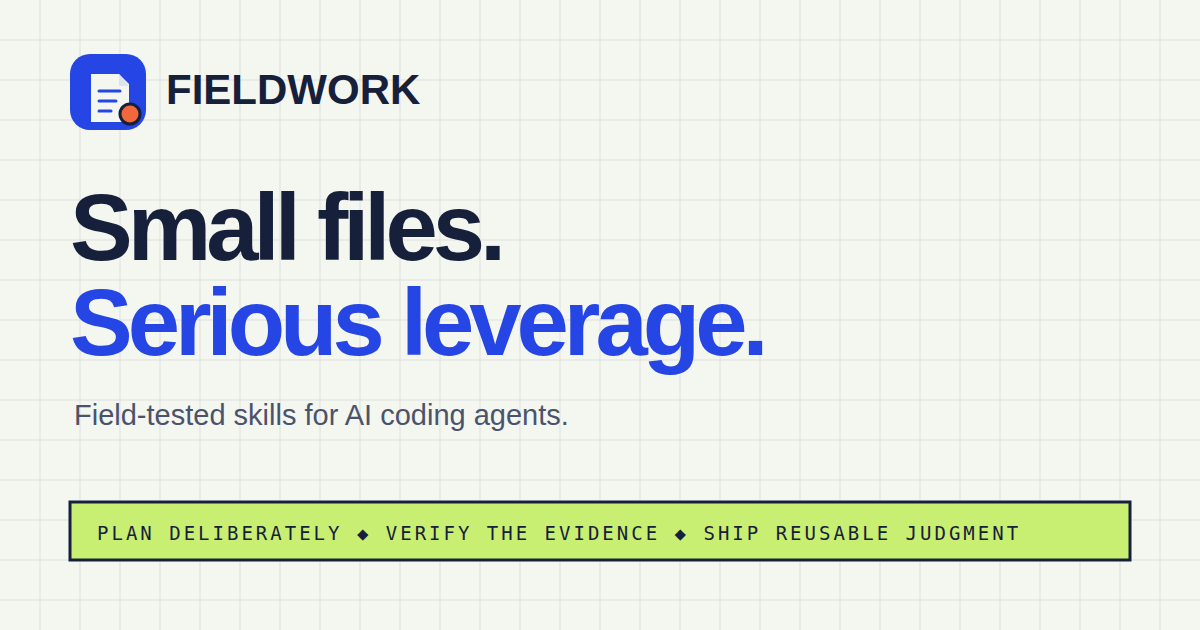
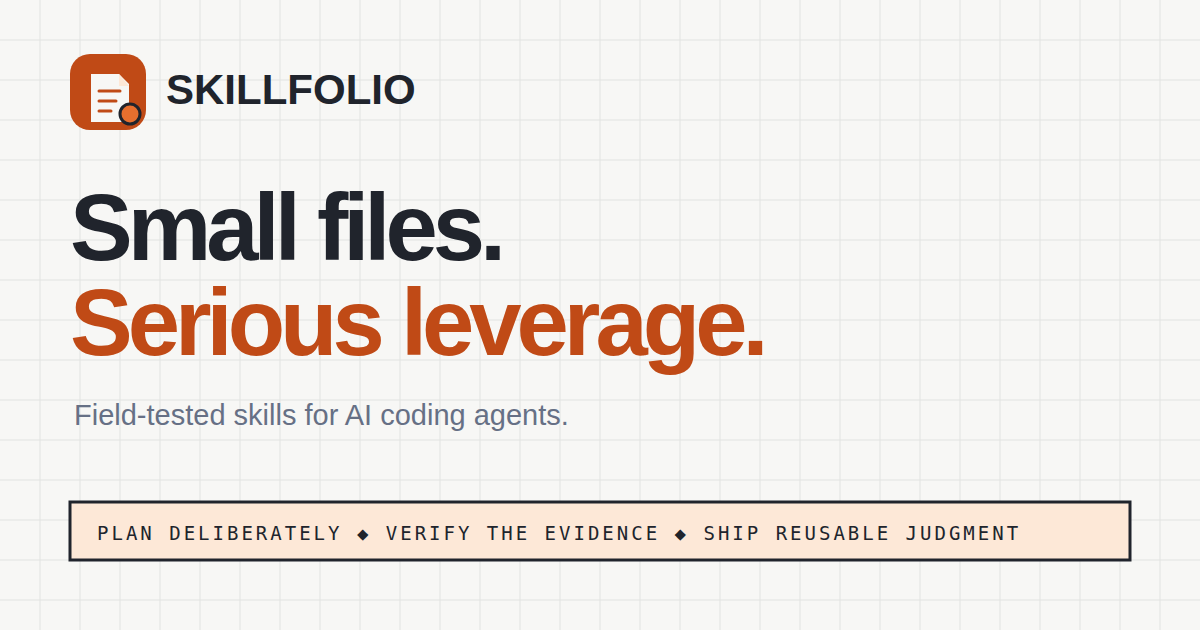
feat: rename app to Skillfolio

diff --git a/prototypes/v1/index.html b/prototypes/v1/index.html
@@ -4,7 +4,7 @@
   <meta charset="UTF-8" />
   <meta name="viewport" content="width=device-width, initial-scale=1.0" />
   <meta name="description" content="A personal library of practical AI agent skills." />
-  <title>Fieldwork — Montasim's Skill Library</title>
+  <title>Skillfolio — Montasim's Skill Library</title>
   <script src="https://cdn.tailwindcss.com"></script>
   <script>
     tailwind.config = {
@@ -49,13 +49,13 @@
   <header class="border-b-2 border-ink bg-paper/95 sticky top-0 z-30 backdrop-blur">
     <nav class="mx-auto max-w-[1440px] h-16 px-5 lg:px-10 flex items-center justify-between" aria-label="Primary navigation">
       <a href="index.html" class="flex items-center gap-3 font-display font-bold text-lg focus-visible:outline focus-visible:outline-2 focus-visible:outline-offset-4 focus-visible:outline-cobalt">
-        <span class="grid place-items-center w-8 h-8 bg-cobalt text-white rounded-full text-sm">F</span>
-        FIELDWORK
+        <span class="grid place-items-center w-8 h-8 bg-cobalt text-white rounded-full text-sm">S</span>
+        SKILLFOLIO
       </a>
       <div class="hidden sm:flex items-center gap-7 text-sm font-semibold">
         <a href="#library" class="hover:text-cobalt">Library</a>
         <a href="#principles" class="hover:text-cobalt">Principles</a>
-        <a href="https://github.com/" class="inline-flex items-center gap-2 border-2 border-ink px-4 py-2 hover:bg-ink hover:text-white transition-colors">GitHub <span aria-hidden="true">↗</span></a>
+        <a href="https://github.com/montasim/Skillfolio" class="inline-flex items-center gap-2 border-2 border-ink px-4 py-2 hover:bg-ink hover:text-white transition-colors">GitHub <span aria-hidden="true">↗</span></a>
       </div>
       <button id="menuButton" class="sm:hidden border-2 border-ink w-10 h-10" aria-label="Open menu" aria-expanded="false">☰</button>
     </nav>
@@ -175,7 +175,7 @@
   </main>
 
   <footer class="mx-auto max-w-[1440px] px-5 lg:px-10 py-10 flex flex-col sm:flex-row gap-4 justify-between text-sm">
-    <p class="font-display font-bold">FIELDWORK © 2026</p>
+    <p class="font-display font-bold">SKILLFOLIO © 2026</p>
     <p class="text-ink/60">Made in Dhaka · Kept in plain text</p>
   </footer>
 

diff --git a/prototypes/v1/skill.html b/prototypes/v1/skill.html
@@ -3,7 +3,7 @@
 <head>
   <meta charset="UTF-8" />
   <meta name="viewport" content="width=device-width, initial-scale=1.0" />
-  <title>Skill details — Fieldwork</title>
+  <title>Skill details — Skillfolio</title>
   <script src="https://cdn.tailwindcss.com"></script>
   <script src="https://cdn.jsdelivr.net/npm/marked@15.0.12/marked.min.js"></script>
   <script src="https://cdn.jsdelivr.net/npm/dompurify@3.2.6/dist/purify.min.js"></script>
@@ -46,14 +46,14 @@
 <body class="min-h-screen bg-paper text-ink font-body selection:bg-lime">
   <header class="border-b-2 border-ink bg-paper/95 sticky top-0 z-30 backdrop-blur">
     <nav class="mx-auto max-w-[1280px] h-16 px-5 lg:px-10 flex items-center justify-between">
-      <a href="index.html" class="flex items-center gap-3 font-display font-bold text-lg"><span class="grid place-items-center w-8 h-8 bg-cobalt text-white rounded-full text-sm">F</span> FIELDWORK</a>
+      <a href="index.html" class="flex items-center gap-3 font-display font-bold text-lg"><span class="grid place-items-center w-8 h-8 bg-cobalt text-white rounded-full text-sm">S</span> SKILLFOLIO</a>
       <a href="index.html#library" class="font-mono text-xs uppercase tracking-wider hover:text-cobalt">← Back to library</a>
     </nav>
   </header>
 
   <main id="detailRoot" class="enter"></main>
 
-  <footer class="border-t-2 border-ink"><div class="mx-auto max-w-[1380px] px-5 lg:px-10 py-9 flex justify-between text-sm"><p class="font-display font-bold">FIELDWORK</p><a href="index.html" class="underline underline-offset-4">Browse every skill</a></div></footer>
+  <footer class="border-t-2 border-ink"><div class="mx-auto max-w-[1380px] px-5 lg:px-10 py-9 flex justify-between text-sm"><p class="font-display font-bold">SKILLFOLIO</p><a href="index.html" class="underline underline-offset-4">Browse every skill</a></div></footer>
   <div id="toast" class="fixed bottom-5 left-1/2 -translate-x-1/2 translate-y-24 opacity-0 bg-ink text-white px-5 py-3 font-mono text-xs transition-all duration-300 z-50" role="status">Copied to clipboard</div>
   <script src="app.js"></script>
 </body>

diff --git a/src/components/site-header.tsx b/src/components/site-header.tsx
@@ -30,7 +30,7 @@ export function SiteHeader() {
           className="group flex items-center gap-3 font-heading text-lg font-bold"
         >
           <BrandMark className="size-9 transition-transform duration-300 group-hover:scale-105 group-hover:rotate-[-4deg]" />
-          FIELDWORK
+          SKILLFOLIO
         </Link>
 
         <div className="hidden items-center gap-7 text-sm font-semibold sm:flex">
@@ -49,7 +49,7 @@ export function SiteHeader() {
             className="rounded-none border-2 border-[#20242C] bg-transparent hover:bg-[#20242C] hover:text-white"
           >
             <a
-              href="https://github.com/montasim/write-project-readme"
+              href="https://github.com/montasim/Skillfolio"
               target="_blank"
               rel="noreferrer"
             >
@@ -72,7 +72,7 @@ export function SiteHeader() {
           <SheetContent className="border-l-2 border-[#20242C] bg-[#F7F7F5]">
             <SheetHeader className="border-b-2 border-[#20242C] p-6">
               <SheetTitle className="font-heading text-2xl">
-                Fieldwork
+                Skillfolio
               </SheetTitle>
               <SheetDescription>
                 Reusable judgment for AI agents.

diff --git a/src/routes/index.tsx b/src/routes/index.tsx
@@ -87,7 +87,7 @@ function App() {
         <div className="mx-auto grid max-w-[1440px] items-stretch gap-12 px-5 py-12 sm:py-16 lg:grid-cols-[1.12fr_.88fr] lg:gap-16 lg:px-10 lg:py-20 xl:gap-24">
           <div className="flex animate-in flex-col justify-center duration-700 fade-in slide-in-from-bottom-3 motion-reduce:animate-none">
             <p className="mb-5 font-mono text-[11px] tracking-[0.2em] text-[#C04A16] uppercase">
-              Montasim&apos;s agent skill library / 2026
+              Montasim&apos;s agent skill portfolio / 2026
             </p>
             <h1 className="max-w-[850px] font-heading text-[clamp(4rem,7.5vw,7.5rem)] leading-[0.82] font-semibold tracking-[-0.07em]">
               Small files.
@@ -95,8 +95,8 @@ function App() {
               <span className="text-[#C04A16]">Serious leverage.</span>
             </h1>
             <p className="mt-8 max-w-xl text-lg leading-relaxed lg:text-xl">
-              A field-tested collection of skills that teach AI agents how to do
-              one job exceptionally well.
+              A curated portfolio of skills that teach AI agents how to do one
+              job exceptionally well.
             </p>
             <Button
               asChild

diff --git a/src/lib/site.ts b/src/lib/site.ts
@@ -1,10 +1,10 @@
 const configuredUrl = import.meta.env.VITE_SITE_URL as string | undefined
 
 export const site = {
-  name: "Fieldwork",
-  title: "Fieldwork — Agent skill library",
+  name: "Skillfolio",
+  title: "Skillfolio — Agent skill library",
   description:
-    "A field-tested collection of reusable skills that teach AI coding agents how to do one job exceptionally well.",
+    "A curated portfolio of reusable skills that teach AI coding agents how to do one job exceptionally well.",
   author: "Montasim",
   url: (configuredUrl || "http://localhost:3000").replace(/\/$/, ""),
   image: "/og-image.png",
@@ -49,7 +49,7 @@ export function seoMeta({
     { property: "og:image:height", content: "630" },
     {
       property: "og:image:alt",
-      content: "Fieldwork — small files, serious leverage.",
+      content: "Skillfolio — small files, serious leverage.",
     },
     { name: "twitter:card", content: "summary_large_image" },
     { name: "twitter:title", content: title },

diff --git a/prototypes/v1/app.js b/prototypes/v1/app.js
@@ -125,7 +125,7 @@ function renderDetail() {
   if (!root) return;
   const slug = new URLSearchParams(location.search).get('skill') || skills[0].slug;
   const skill = skills.find(item => item.slug === slug) || skills[0];
-  document.title = `${skill.name} — Fieldwork`;
+  document.title = `${skill.name} — Skillfolio`;
   root.innerHTML = `
     <section class="docs-grid border-b-2 border-ink">
       <div class="mx-auto max-w-[1380px] px-5 lg:px-10 py-12 lg:py-16 grid lg:grid-cols-[minmax(0,1fr)_390px] gap-10 lg:gap-16 items-end">

diff --git a/src/components/site-footer.tsx b/src/components/site-footer.tsx
@@ -5,7 +5,7 @@ export function SiteFooter() {
     <footer className="border-t-2 border-[#20242C] bg-[#F7F7F5]">
       <div className="mx-auto flex max-w-[1440px] flex-col justify-between gap-3 px-5 py-9 text-sm sm:flex-row lg:px-10">
         <p className="flex items-center gap-2 font-heading font-bold">
-          <BrandMark className="size-7" /> FIELDWORK © 2026
+          <BrandMark className="size-7" /> SKILLFOLIO © 2026
         </p>
         <p className="text-[#20242C]/60">Made in Dhaka · Kept in plain text</p>
       </div>

diff --git a/src/components/brand-mark.tsx b/src/components/brand-mark.tsx
@@ -11,7 +11,7 @@ export function BrandMark({ className, ...props }: BrandMarkProps) {
     <svg
       viewBox="0 0 40 40"
       role="img"
-      aria-label="Fieldwork"
+      aria-label="Skillfolio"
       className={cn("size-9", className)}
       {...props}
     >

diff --git a/README.md b/README.md
@@ -1,6 +1,6 @@
-# Fieldwork
+# Skillfolio
 
-A frontend-only agent skill library built with TanStack Start, shadcn/ui, and Tailwind CSS.
+A frontend-only portfolio of reusable agent skills built with TanStack Start, shadcn/ui, and Tailwind CSS.
 
 ## Development
 

diff --git a/prototypes/v1/README.md b/prototypes/v1/README.md
@@ -1,4 +1,4 @@
-# Fieldwork prototype — v1
+# Skillfolio prototype — v1
 
 A static, responsive prototype for browsing Montasim's personal AI agent skills.
 
